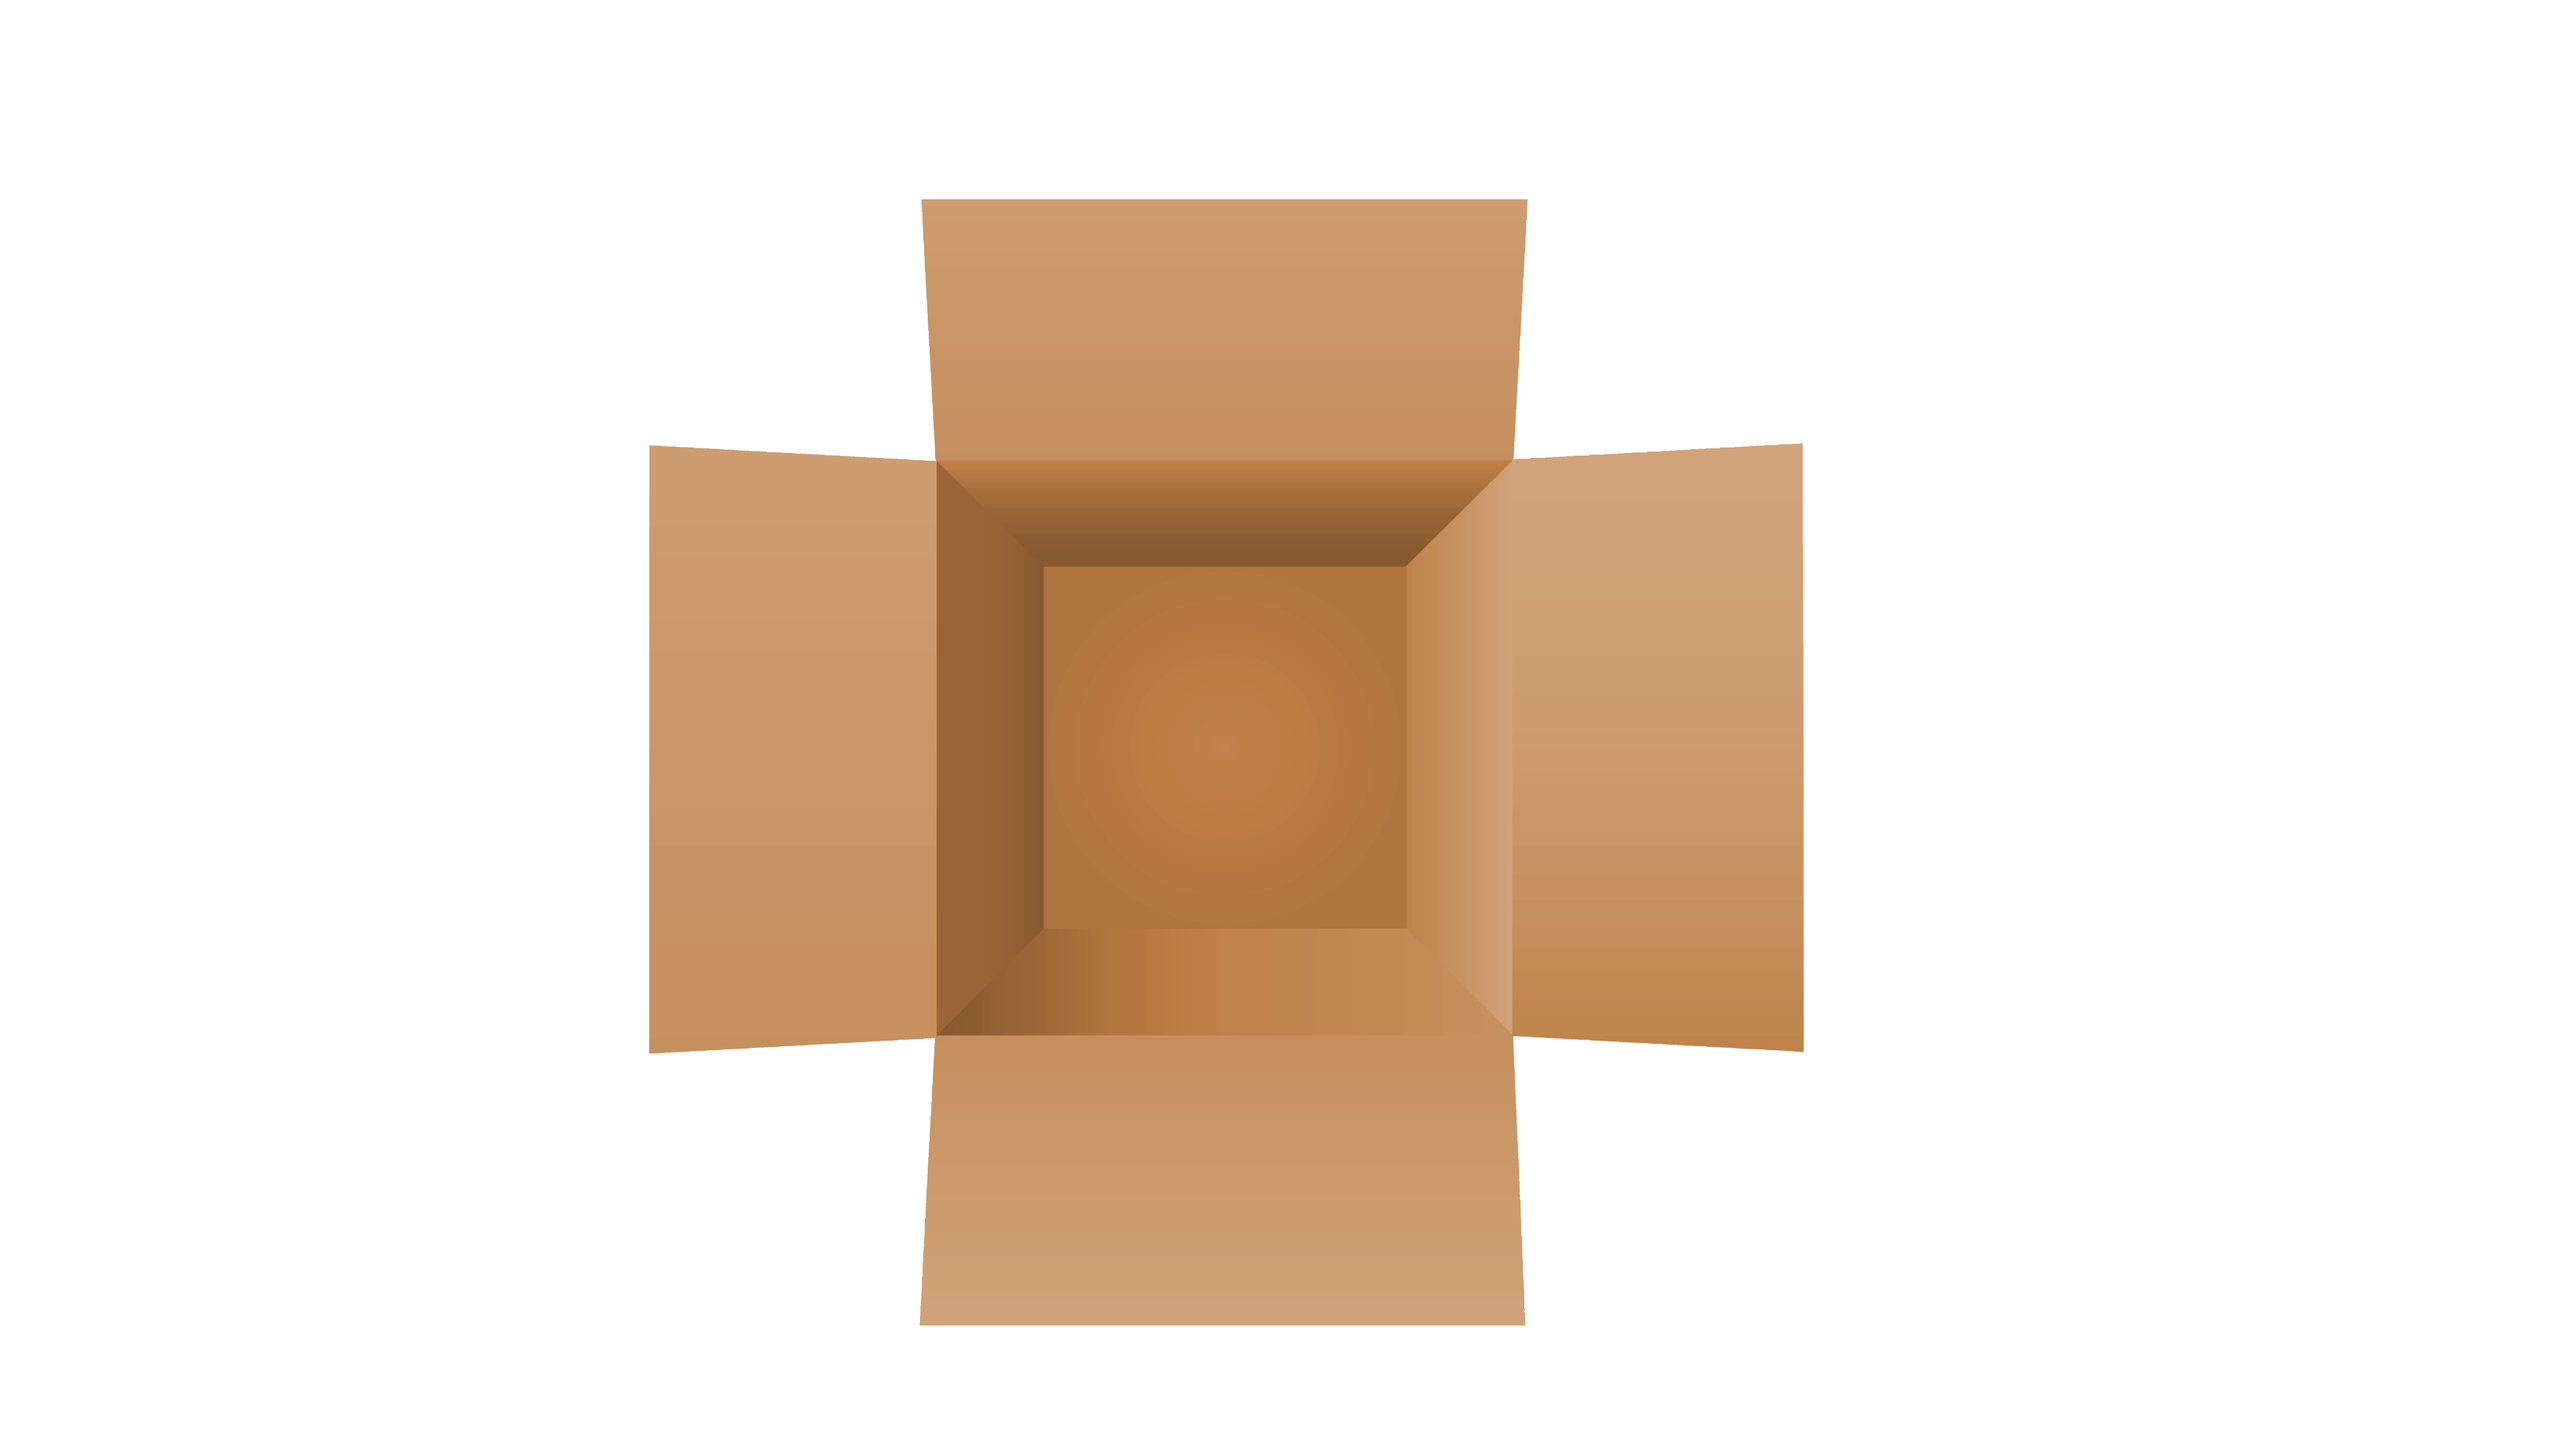
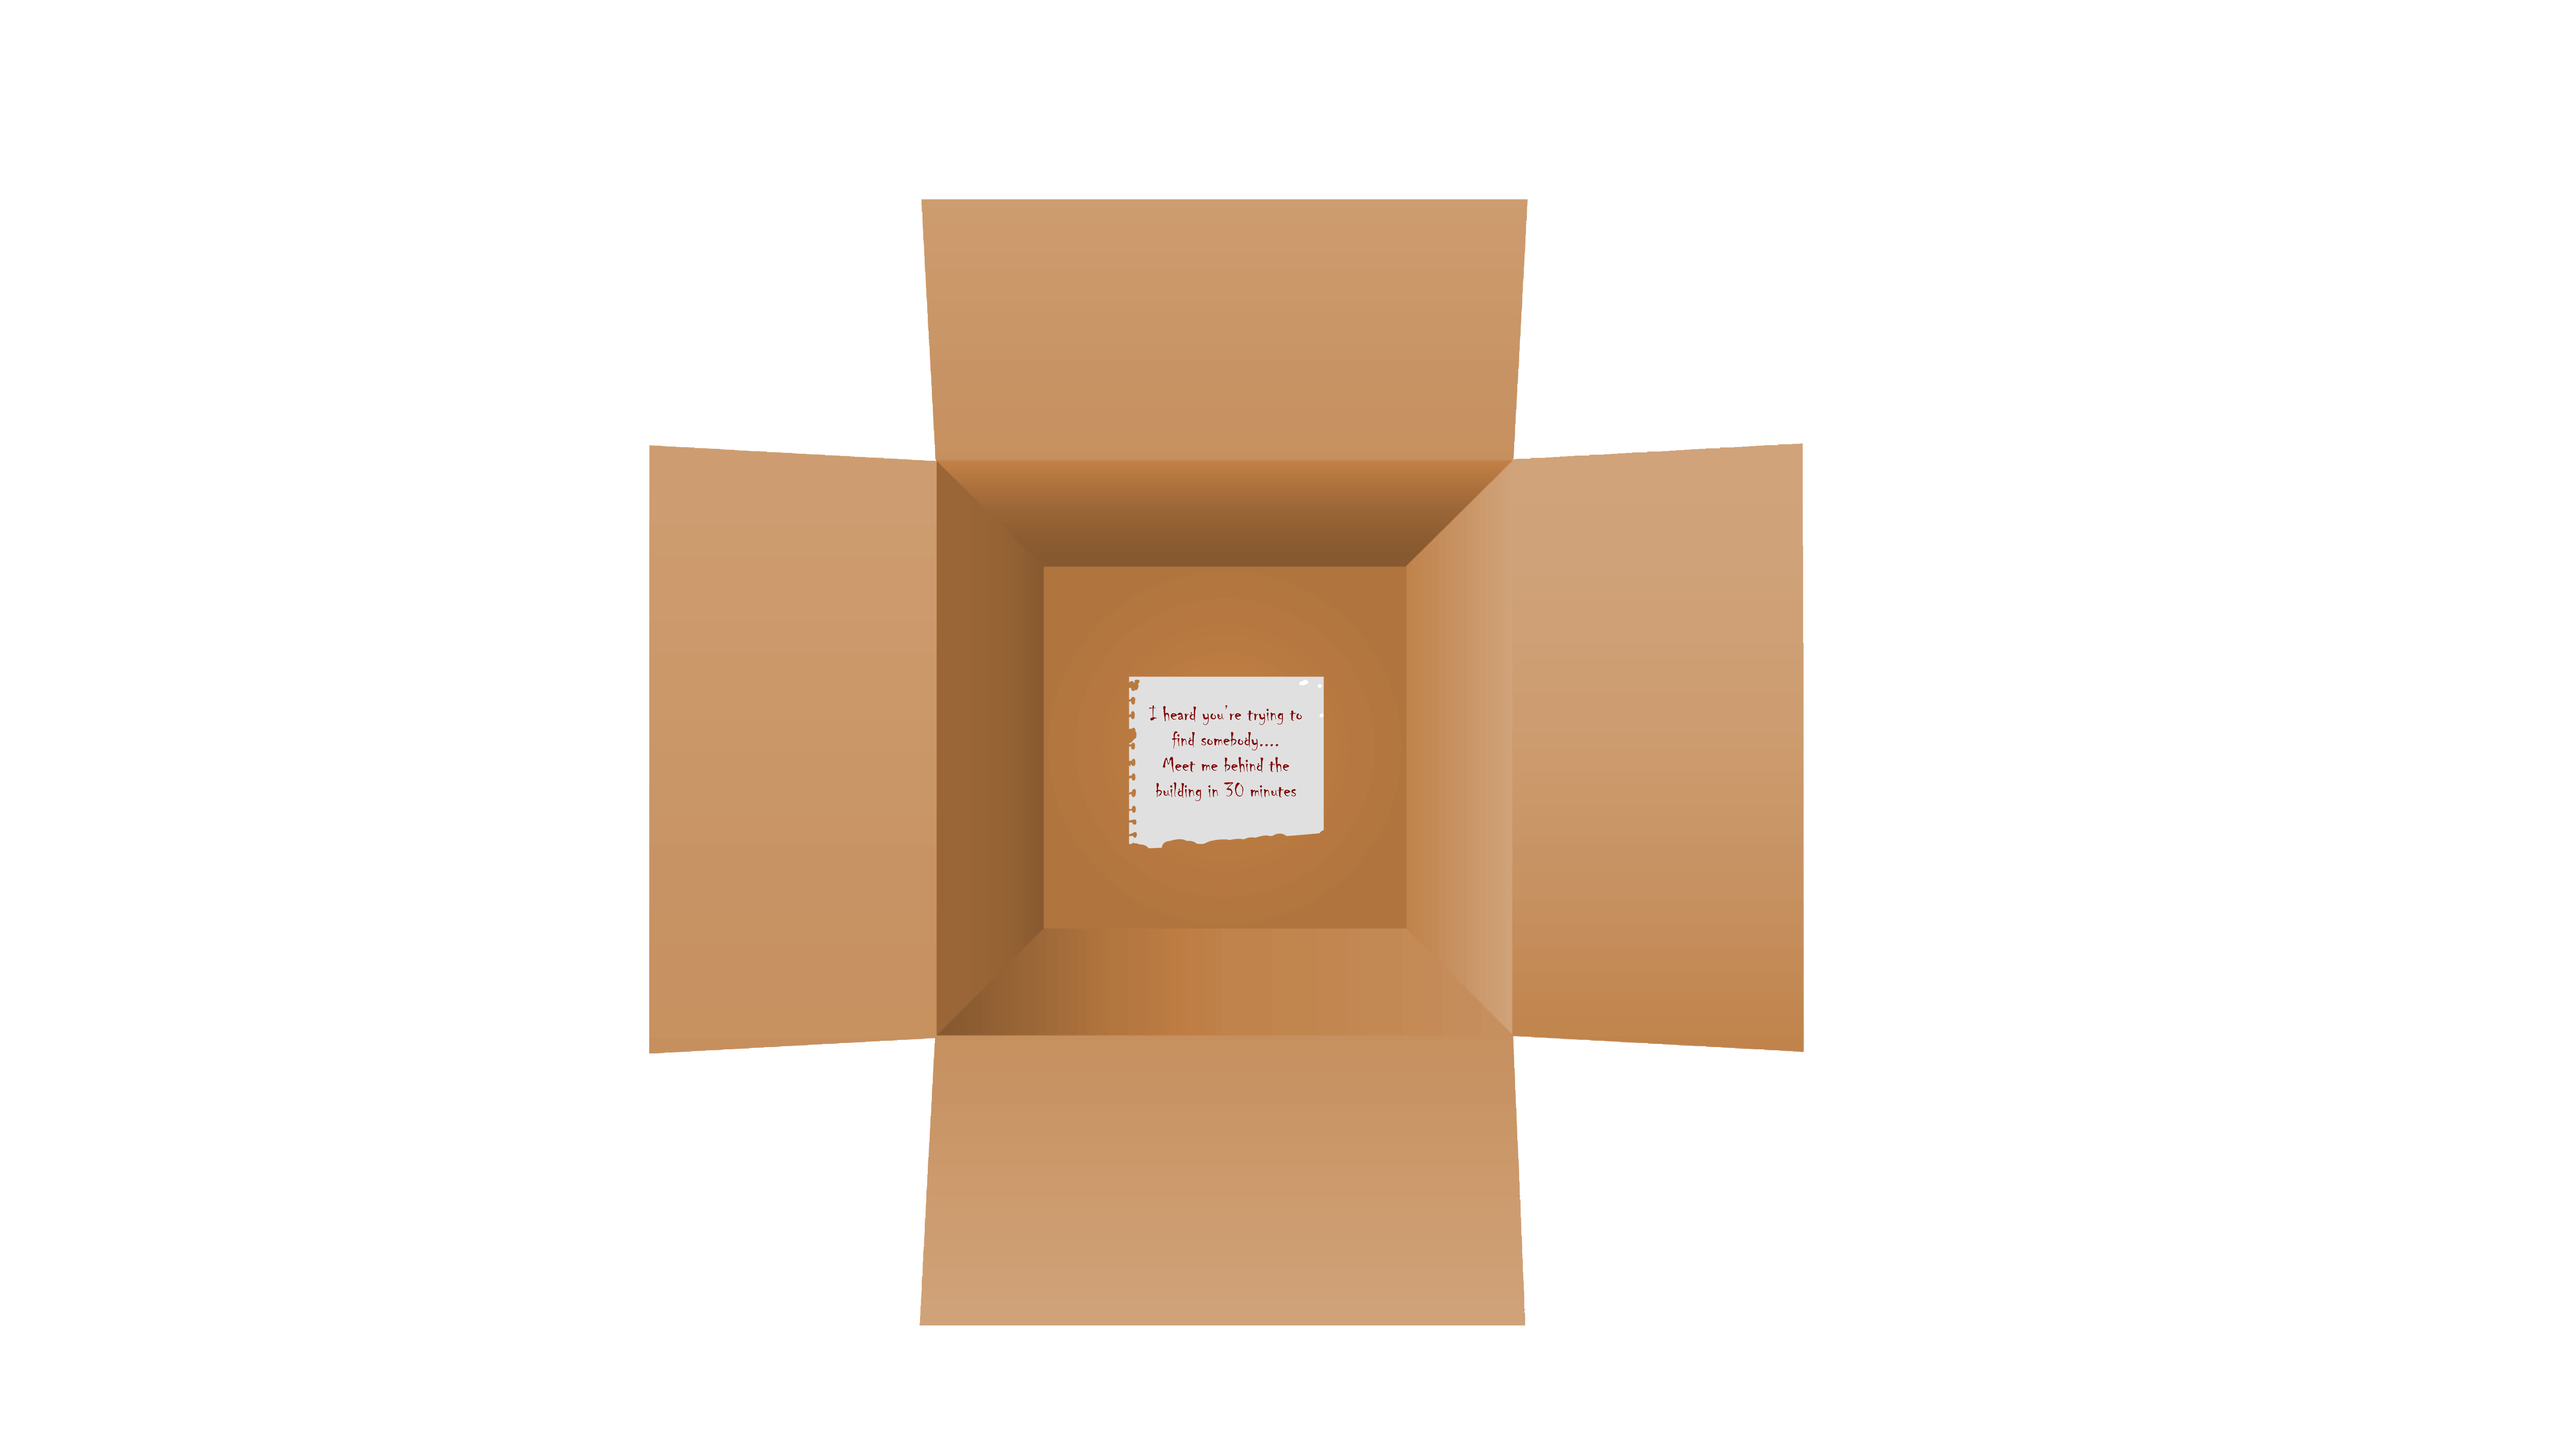
gif

Changed region(s): [[0.4356, 0.4688, 0.5289, 0.5938]]

diff --git a/portfolio.js b/portfolio.js
@@ -1,1 +1,1 @@
-var storyContent = {"inkVersion":20,"root":[["^Would you like to play a game?","\n","ev","str","^Yes","/str","/ev",{"*":"0.c-0","flg":20},["ev",{"^->":"0.8.$r1"},{"temp=":"$r"},"str",{"->":".^.s"},[{"#n":"$r1"}],"/str","/ev",{"*":"0.c-1","flg":18},{"s":["^<a href=\"/ResumeCurrent.html\">No</a>",{"->":"$r","var":true},null]}],{"c-0":[{"->":"BeginGame"},"\n",{"->":"0.g-0"},{"#f":5}],"c-1":["ev",{"^->":"0.c-1.$r2"},"/ev",{"temp=":"$r"},{"->":"0.8.s"},[{"#n":"$r2"}],"\n","done",{"->":"0.g-0"},{"#f":5}],"g-0":["done",{"#f":5}]}],"done",{"BeginGame":[[{"#":"CLEAR"},{"#":"IMAGE: Images/Door.png"},"^Knock Knock Knock....","\n","ev","str","^Open Door","/str","/ev",{"*":".^.c-0","flg":20},"ev","str","^<a href=\"/ResumeCurrent.html\">Nevermind, I don't want to play</a>","/str","/ev",{"*":".^.c-1","flg":20},{"c-0":["^ ",{"->":"OpenDoor"},"\n",{"#f":5}],"c-1":["\n","done",{"#f":5}]}],{"#f":1}],"OpenDoor":[[{"#":"CLEAR"},{"#":"IMAGE: Images/OpenDoor.png"},"^What could that be?","\n","ev","str","^Pick up the box","/str","/ev",{"*":".^.c-0","flg":20},"ev","str","^Push the box aside and close the door","/str","/ev",{"*":".^.c-1","flg":20},"ev","str","^Peek outside to see who left it","/str","/ev",{"*":".^.c-2","flg":20},{"c-0":[{"->":"PickUpBox"},"\n",{"#f":5}],"c-1":[{"->":"CloseDoorAgain"},"\n",{"#f":5}],"c-2":[{"->":"PeekOutside"},"\n","done",{"#f":5}]}],{"#f":1}],"PickUpBox":[{"#":"CLEAR"},{"#":"IMAGE: Images/openbox.png"},"^What a big box for such a small note...","\n","done",{"#f":1}],"CloseDoorAgain":[{"#":"CLEAR"},{"#":"IMAGE: Images/OpenDoor.png"},"^Not today...","\n","done",{"#f":1}],"PeekOutside":[{"#":"CLEAR"},{"#":"IMAGE: Images/OpenDoor.png"},"^Hello....","\n","done",{"#f":1}],"#f":1}],"listDefs":{}};
+var storyContent = {"inkVersion":20,"root":[["^Would you like to play a game?","\n","ev","str","^Yes","/str","/ev",{"*":"0.c-0","flg":20},["ev",{"^->":"0.8.$r1"},{"temp=":"$r"},"str",{"->":".^.s"},[{"#n":"$r1"}],"/str","/ev",{"*":"0.c-1","flg":18},{"s":["^<a href=\"/ResumeCurrent.html\">No</a>",{"->":"$r","var":true},null]}],{"c-0":[{"->":"BeginGame"},"\n",{"->":"0.g-0"},{"#f":5}],"c-1":["ev",{"^->":"0.c-1.$r2"},"/ev",{"temp=":"$r"},{"->":"0.8.s"},[{"#n":"$r2"}],"\n","done",{"->":"0.g-0"},{"#f":5}],"g-0":["done",{"#f":5}]}],"done",{"BeginGame":[[{"#":"CLEAR"},{"#":"IMAGE: Images/Door.png"},"^Knock Knock Knock....","\n","ev","str","^Open Door","/str","/ev",{"*":".^.c-0","flg":20},"ev","str","^<a href=\"/ResumeCurrent.html\">Nevermind, I don't want to play</a>","/str","/ev",{"*":".^.c-1","flg":20},{"c-0":["^ ",{"->":"OpenDoor"},"\n",{"#f":5}],"c-1":["\n","done",{"#f":5}]}],{"#f":1}],"OpenDoor":[[{"#":"CLEAR"},{"#":"IMAGE: Images/OpenDoor.png"},"^What could that be?","\n","ev","str","^Pick up the box","/str","/ev",{"*":".^.c-0","flg":20},"ev","str","^Push the box aside and close the door","/str","/ev",{"*":".^.c-1","flg":20},"ev","str","^Peek outside to see who left it","/str","/ev",{"*":".^.c-2","flg":20},{"c-0":[{"->":"PickUpBox"},"\n",{"#f":5}],"c-1":[{"->":"CloseDoorAgain"},"\n",{"#f":5}],"c-2":[{"->":"PeekOutside"},"\n","done",{"#f":5}]}],{"#f":1}],"PickUpBox":[[{"#":"CLEAR"},{"#":"IMAGE: Images/openbox.png"},"^What a big box for such a small note...","\n","ev","str","^Read note","/str","/ev",{"*":".^.c-0","flg":20},{"c-0":[{"->":"ReadNote"},"\n","done",{"#f":5}]}],{"#f":1}],"CloseDoorAgain":[{"#":"CLEAR"},{"#":"IMAGE: Images/DoorClosing.gif"},"^Not today...","\n","done",{"#f":1}],"PeekOutside":[{"#":"CLEAR"},{"#":"IMAGE: Images/OpenDoor.png"},"^Hello....","\n","done",{"#f":1}],"ReadNote":[{"#":"CLEAR"},{"#":"IMAGE: Images/Note.png"},"^Creepy.","\n","done",{"#f":1}],"#f":1}],"listDefs":{}};

diff --git a/style.css b/style.css
@@ -116,24 +116,13 @@ h2 {
 p {
     text-shadow: 1px 1px #333;
     filter: blur(0.2px);
-    animation: appear-disappear 4s ;
     font-size: 16pt;
     font-weight: 700;
     color: rgb(203, 185, 218);
     line-height: 1.7em;
     font-family: 'Gruppo', cursive;
 }
-@keyframes appear-disappear {
-    0% {
-        opacity: 1;
-    }
-    50% {
-        opacity: 0;
-    }
-    100% {
-        opacity: 1;
-    }
-}
+
 
 a {
     font-weight: 700;
